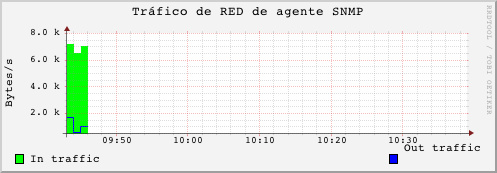
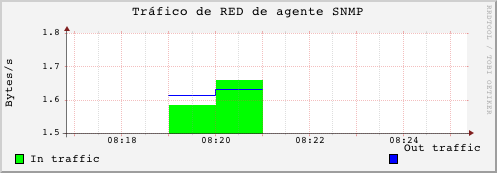
Genera reporte PDF de 5 parametros que el sistema monitorea

diff --git a/Practica1/practica1.py b/Practica1/practica1.py
@@ -1,5 +1,6 @@
 from Practica1.getSNMP import consultaSNMP
 
+
 print("---------- PRACTICA 1 ----------")
 print("--------------------------------")
 
@@ -28,13 +29,51 @@ for agente in misAgentes:
     dir = a[2]
     print("Agente", num, "| Comunidad:", com, "Direccion:", dir)
 
+#Selección de agente
+print("Selecciona un agente para obtener más información")
+sa = int(input())
+
+if sa == 1:
+    com = misAgentes[0].split(',')
+    dir = misAgentes[0].split(',')
+    community = com[1]
+    myDirr = dir[2]
+elif sa == 2:
+    com = misAgentes[1].split(',')
+    dir = misAgentes[1].split(',')
+    community = com[1]
+    ip = dir[2]
+elif sa == 3:
+    com = misAgentes[2].split(',')
+    dir = misAgentes[2].split(',')
+    community = com[1]
+    ip = dir[2]
+elif sa ==4:
+    com = misAgentes[3].split(',')
+    dir = misAgentes[3].split(',')
+    community = com[1]
+    ip = dir[2]
+
 # El status del monitoreo del agente (up or down)
 print(" --> Status del monitoreo del agente: \n")
+print((community))
+print(myDirr)
+
+oid =  "1.3.6.1.2.1.1.1.0"
+consulta = consultaSNMP(community,myDirr,oid)
+
 try:
-    consulta = consultaSNMP("acarrillo", "localhost", "1.3.6.1.2.1.1.1.0")
+    consulta = consultaSNMP(community, myDirr, "1.3.6.1.2.1.1.1.0")
     print("Status del Agente: UP")
 except:
     print ("Status del Agente: DOWN")
+
+#while consulta.find("No") == -1 and consulta.find("noSuchName") == -1:
+    #print("system UP")
+    #break
+
+
+
 
 #Número de interfaces disponibles
 print(" --> Número de interfaces disponibles: \n")
@@ -43,7 +82,7 @@ res = ""
 
 while res != "No":
     oid = "1.3.6.1.2.1.2.2.1.2." + str(i)
-    res = consultaSNMP("acarrillo", "localhost", oid)
+    res = consultaSNMP(community,myDirr, oid)
     if(res == "No"):
         print("")
     else:
@@ -57,7 +96,7 @@ res = ""
 
 while res != "No":
     oid = "1.3.6.1.2.1.2.2.1.10." + str(i)
-    res = consultaSNMP("acarrillo", "localhost", oid)
+    res = consultaSNMP(community, myDirr, oid)
     if(res == "No"):
         print("")
     else:
@@ -120,28 +159,6 @@ def eliminarAgente():
         misAgentes.remove(misAgentes[e])
         ags = misAgentes[-1]
         a = ags.split(',')
-        #print(e)
-        #print(param)
-        #i = e
-
-        #for agnt in misAgentes[i:param]:
-            #print(agnt)
-            #od = agnt[0]
-            #old = str(od)
-            #nw = int(agnt[0]) - 1
-            #new = str(nw)
-            #print(old)
-            #print(new)
-            #misAgentes[i][0] = ""+new
-            #print(misAgentes[i][0])
-            #misAgentes[i][0].replace(old, new)
-            #print("I --- " + str(i))
-            #old = misAgentes[e][0]
-            #print("Old")
-            #print(old)
-            #new = str(e)
-            #misAgentes[e][0].replace(old,new)
-            #i+=1
         print(misAgentes)
 
         param = int(misAgentes[-1][0]) -1

diff --git a/Practica1/generarPDF.py b/Practica1/generarPDF.py
@@ -1,0 +1,53 @@
+from fpdf import FPDF
+from Practica1.getSNMP import consultaSNMP
+
+so = str(consultaSNMP('ricardovargassagrero', '10.100.70.14', '1.3.6.1.2.1.1.1.0'))
+ubi = str(consultaSNMP('ricardovargassagrero', '10.100.70.14', '1.3.6.1.2.1.1.6.0'))
+numPuertos = str(consultaSNMP('ricardovargassagrero', '10.100.70.14', '1.3.6.1.2.1.2.1.0'))
+tiempoActivo = str(consultaSNMP('ricardovargassagrero', '10.100.70.14', '1.3.6.6.1.2.1.1.3.0'))
+
+
+
+#so = str(consultaSNMP('aubuntu', '10.100.67.146', '1.3.6.1.2.1.1.1.0'))
+#ubi = str(consultaSNMP('aubuntu', '10.100.67.146', '1.3.6.1.2.1.1.6.0'))
+#numPuertos = str(consultaSNMP('aubuntu', '10.100.67.146', '1.3.6.1.2.1.2.1.0'))
+#tiempoActivo = str(consultaSNMP('aubuntu', '10.100.67.146', '1.3.6.6.1.2.1.1.3.0'))
+
+#Información
+# ricardovargassagrero 10.100.70.14
+
+#-packets con errores
+#consultaSNMP("acarrillo", "localhost", "1.3.6.1.2.1.2.2.1.11")
+
+#Paquetes de entrada Unicast
+#consultaSNMP("acarrillo", "localhost", "1.3.6.1.2.1.2.2.1.11")
+
+
+#Mensajes ICMP echo que ha enviado el agente
+#consultaSNMP("acarrillo", "localhost", "1.3.6.1.2.1.5 ")
+
+#-Segmentos recibidos, incluyendo aquellos que se reciben con errores
+#consultaSNMP("acarrillo", "localhost", "1.3.6.1.2.1.6.10.0")
+
+#-Datagramas entregados a usuarios UDP
+#consultaSNMP("acarrillo", "localhost", "1.3.6.1.2.1.7.1.0")
+
+pdf = FPDF(orientation='P', unit='mm', format='letter')
+pdf.add_page()
+pdf.set_font("Arial", size=32)
+pdf.cell(200, 10, txt="Practica 1: Adquisicion de informacion", ln=1, align="C")
+pdf.cell(200, 15, txt="Usando SNMP", ln=1, align="C")
+pdf.set_font("Arial", size=12)
+pdf.cell(200, 5, txt="Nombre y versión del sistema operativo: "+so, ln=1, align="L")
+pdf.cell(200, 5, txt="Ubicacion Geográfica: "+ubi, ln=1, align="L")
+pdf.cell(200, 5, txt="Numero de puertos: "+numPuertos, ln=1, align="L")
+pdf.cell(200, 5, txt="Tiempo de actividad desde el ultimo reinicio: "+tiempoActivo, ln=1, align="L")
+pdf.cell(200, 5, txt="Comunidad: ricardovargassagrero", ln=1, align="L")
+pdf.cell(200, 5, txt="Datagramas entregados a usuarios UDP", ln=1, align="R")
+pdf.image("windows.png", x = 150, y = 35, w = 35, h = 25)
+pdf.image("datagramasUDP.png", x = 140, y = 100, w = 65, h = 45)
+pdf.image("segmentosrec.png", x = 140, y = 150, w = 65, h = 45)
+pdf.image("icmp.png", x = 40, y = 100, w = 65, h = 45)
+pdf.image("unicast.png", x = 40, y = 150, w = 65, h = 45)
+pdf.image("ipv4.png", x = 40, y = 200, w = 65, h = 45)
+pdf.output("demoWindows.pdf")

diff --git a/Practica1/ipv4.py b/Practica1/ipv4.py
@@ -4,16 +4,19 @@ from Practica1.getSNMP import consultaSNMP
 total_input_traffic = 0
 total_output_traffic = 0
 
+#packets con errores
+#consultaSNMP("acarrillo", "localhost", "1.3.6.1.2.1.2.2.1.11.1")
+
 while 1:
     total_input_traffic = int(
-        consultaSNMP("acarrillo", "localhost", "1.3.6.1.2.1.2.2.1.10.10"))
+        consultaSNMP("ricardovargassagrero", "10.100.70.14", "1.3.6.1.2.1.2.2.1.11.1"))
     total_output_traffic = int(
-        consultaSNMP("acarrillo", "localhost", "1.3.6.1.2.1.2.2.1.16.10"))
+        consultaSNMP("ricardovargassagrero", "10.100.70.14", "1.3.6.1.2.1.2.2.1.11.1"))
 
     valor = "N:" + str(total_input_traffic) + ':' + str(total_output_traffic)
     print (valor)
-    rrdtool.update('trafico.rrd', valor)
-    rrdtool.dump('trafico.rrd', 'traffic.xml')
+    rrdtool.update('traficov4.rrd', valor)
+    rrdtool.dump('traficov4.rrd', 'traficov4.xml')
 
     time.sleep(1)
 

diff --git a/Practica1/datagramaudpRDD.py b/Practica1/datagramaudpRDD.py
@@ -4,16 +4,21 @@ from Practica1.getSNMP import consultaSNMP
 total_input_traffic = 0
 total_output_traffic = 0
 
+#Datagramas entregados a usuarios UDP
+#consultaSNMP("acarrillo", "localhost", "1.3.6.1.2.1.7.1.0")
+
+
+
 while 1:
     total_input_traffic = int(
-        consultaSNMP("acarrillo", "localhost", "1.3.6.1.2.1.2.2.1.10.10"))
+        consultaSNMP("aubuntu", "10.100.67.146", "1.3.6.1.2.1.7.1.0"))
     total_output_traffic = int(
-        consultaSNMP("acarrillo", "localhost", "1.3.6.1.2.1.2.2.1.16.10"))
+        consultaSNMP("aubuntu", "10.100.67.146", "1.3.6.1.2.1.7.1.0"))
 
     valor = "N:" + str(total_input_traffic) + ':' + str(total_output_traffic)
     print (valor)
-    rrdtool.update('trafico.rrd', valor)
-    rrdtool.dump('trafico.rrd', 'traffic.xml')
+    rrdtool.update('datagramaUDP.rrd', valor)
+    rrdtool.dump('datagramaUDP.rrd', 'datagramaUDP.xml')
 
     time.sleep(1)
 

diff --git a/Practica1/graphSegRRD.py b/Practica1/graphSegRRD.py
@@ -6,13 +6,13 @@ tiempo_final = tiempo_actual - 300
 tiempo_inicial = tiempo_final -25920000
 
 while 1:
-    ret = rrdtool.graph( "datagramasUDP.png",
+    ret = rrdtool.graph( "segmentosrec.png",
                      "--start="+ str(tiempo_final),
  #                    "--end","N",
                      "--vertical-label=Bytes/s",
-                     "--title=Datagramas entregados a usuarios UDP",
-                     "DEF:entrada=datagramaUDP.rrd:inoctets:AVERAGE",
-                     "DEF:salida=datagramaUDP.rrd:outoctets:AVERAGE",
+                     "--title=Segmentos recibidos incluyendo con errores",
+                     "DEF:entrada=trafico.rrd:inoctets:AVERAGE",
+                     "DEF:salida=trafico.rrd:outoctets:AVERAGE",
                      "AREA:entrada#00FF00:In traffic",
                      "LINE1:salida#0000FF:Out traffic\r")
 

diff --git a/Practica1/unicast.py b/Practica1/unicast.py
@@ -1,0 +1,27 @@
+import time
+import rrdtool
+from Practica1.getSNMP import consultaSNMP
+total_input_traffic = 0
+total_output_traffic = 0
+
+#Paquetes de entrada Unicast
+#consultaSNMP("acarrillo", "localhost", "1.3.6.1.2.1.2.2.1.11") 'ricardovargassagrero', '10.100.70.14'
+
+
+
+while 1:
+    total_input_traffic = int(
+        consultaSNMP("ricardovargassagrero", "10.100.70.14", "1.3.6.1.2.1.2.2.1.11.1"))
+    total_output_traffic = int(
+        consultaSNMP("ricardovargassagrero", "10.100.70.14", "1.3.6.1.2.1.2.2.1.11.1"))
+
+    valor = "N:" + str(total_input_traffic) + ':' + str(total_output_traffic)
+    print (valor)
+    rrdtool.update('traficoUnicast.rrd', valor)
+    rrdtool.dump('traficoUnicast.rrd', 'traficou.xml')
+
+    time.sleep(1)
+
+if ret:
+    print (rrdtool.error())
+    time.sleep(300)

diff --git a/Practica1/icmp.py b/Practica1/icmp.py
@@ -1,0 +1,27 @@
+import time
+import rrdtool
+from Practica1.getSNMP import consultaSNMP
+total_input_traffic = 0
+total_output_traffic = 0
+
+#Mensajes ICMP echo que ha enviado el agente
+#consultaSNMP("acarrillo", "localhost", "1.3.6.1.2.1.5.0 ") 1.3.6.1.2.1.5
+
+
+
+while 1:
+    total_input_traffic = int(
+        consultaSNMP("ricardovargassagrero", "10.100.70.14", "1.3.6.1.2.1.5.10.0"))
+    total_output_traffic = int(
+        consultaSNMP("ricardovargassagrero", "10.100.70.14", "1.3.6.1.2.1.5.10.0"))
+
+    valor = "N:" + str(total_input_traffic) + ':' + str(total_output_traffic)
+    print (valor)
+    rrdtool.update('traficoicmp.rrd', valor)
+    rrdtool.dump('traficoicmp.rrd', 'trafico.xml')
+
+    time.sleep(1)
+
+if ret:
+    print (rrdtool.error())
+    time.sleep(300)

diff --git a/Practica1/segmentosRec.py b/Practica1/segmentosRec.py
@@ -1,0 +1,27 @@
+import time
+import rrdtool
+from Practica1.getSNMP import consultaSNMP
+total_input_traffic = 0
+total_output_traffic = 0
+
+#Mensajes ICMP echo que ha enviado el agente
+#consultaSNMP("acarrillo", "localhost", "1.3.6.1.2.1.5 ")
+
+
+
+while 1:
+    total_input_traffic = int(
+        consultaSNMP("ricardovargassagrero", "10.100.70.14", "1.3.6.1.2.1.5.10.0"))
+    total_output_traffic = int(
+        consultaSNMP("ricardovargassagrero", "10.100.70.14", "1.3.6.1.2.1.5.10.0"))
+
+    valor = "N:" + str(total_input_traffic) + ':' + str(total_output_traffic)
+    print (valor)
+    rrdtool.update('traficoRED.rrd', valor)
+    rrdtool.dump('traficoRED.rrd', 'traficoSeg.xml')
+
+    time.sleep(1)
+
+if ret:
+    print (rrdtool.error())
+    time.sleep(300)

diff --git a/Practica1/graphUnicast.py b/Practica1/graphUnicast.py
@@ -1,0 +1,19 @@
+import sys
+import rrdtool
+import time
+tiempo_actual = int(time.time())
+tiempo_final = tiempo_actual - 300
+tiempo_inicial = tiempo_final -25920000
+
+while 1:
+    ret = rrdtool.graph( "unicast.png",
+                     "--start="+ str(tiempo_final),
+ #                    "--end","N",
+                     "--vertical-label=Bytes/s",
+                     "--title=Unicast",
+                     "DEF:entrada=traficoUnicast.rrd:inoctets:AVERAGE",
+                     "DEF:salida=traficoUnicast.rrd:outoctets:AVERAGE",
+                     "AREA:entrada#00FF00:Unicast",
+                     "LINE1:salida#0000FF:Unicast\r")
+
+    time.sleep(30)

diff --git a/Practica1/graphICMP.py b/Practica1/graphICMP.py
@@ -1,0 +1,19 @@
+import sys
+import rrdtool
+import time
+tiempo_actual = int(time.time())
+tiempo_final = tiempo_actual - 300
+tiempo_inicial = tiempo_final -25920000
+
+while 1:
+    ret = rrdtool.graph( "icmp.png",
+                     "--start="+ str(tiempo_final),
+ #                    "--end","N",
+                     "--vertical-label=Bytes/s",
+                     "--title=ICMP",
+                     "DEF:entrada=trafico.rrd:inoctets:AVERAGE",
+                     "DEF:salida=trafico.rrd:outoctets:AVERAGE",
+                     "AREA:entrada#00FF00:ICMP echo incluyendo errores",
+                     "LINE1:salida#0000FF:ICMP\r")
+
+    time.sleep(30)

diff --git a/Practica1/graphIPV4.py b/Practica1/graphIPV4.py
@@ -1,0 +1,19 @@
+import sys
+import rrdtool
+import time
+tiempo_actual = int(time.time())
+tiempo_final = tiempo_actual - 300
+tiempo_inicial = tiempo_final -25920000
+
+while 1:
+    ret = rrdtool.graph( "ipv4.png",
+                     "--start="+ str(tiempo_final),
+ #                    "--end","N",
+                     "--vertical-label=Bytes/s",
+                     "--title=ICMP",
+                     "DEF:entrada=traficov4.rrd:inoctets:AVERAGE",
+                     "DEF:salida=traficov4.rrd:outoctets:AVERAGE",
+                     "AREA:entrada#00FF00:IPv4",
+                     "LINE1:salida#0000FF:IPv4\r")
+
+    time.sleep(30)
